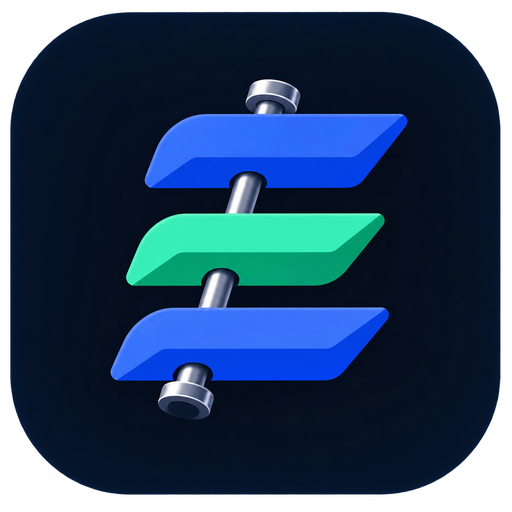
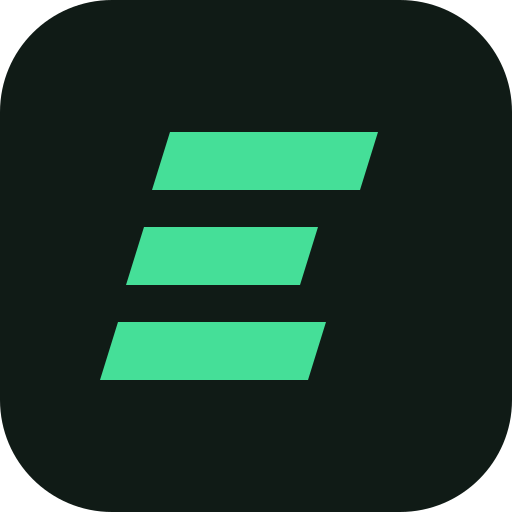
Fix manual timer controls and refresh green branding

diff --git a/index.html b/index.html
@@ -4,8 +4,8 @@
 <meta charset="UTF-8">
 <meta name="viewport" content="width=device-width, initial-scale=1.0, viewport-fit=cover">
 <meta name="theme-color" content="#101110">
-<meta name="description" content="Entreno 2.6.0 · tu plan 3+1: fuerza, tren superior y acondicionamiento opcional. Historial y entrenamiento sin conexión.">
-<title>Entreno 2.6.0</title>
+<meta name="description" content="Entreno 2.6.1 · tu plan 3+1 con reloj manual, historial y entrenamiento sin conexión.">
+<title>Entreno 2.6.1</title>
 
 <link rel="manifest" href="./manifest.json">
 <meta name="mobile-web-app-capable" content="yes">
@@ -464,7 +464,7 @@ footer{color:var(--t3);font-size:9.5px;text-align:center;padding:26px 0 10px;fon
 }
 
 /* 2.6 · mobile training surface */
-:root{--bg:#101110;--t1:#f6f6f0;--t2:#c2c5bc;--t3:#a0a59a;--c-upper:#d5f568;--c-upperb:#b6ccff;--c-leg:#94dbb8;--c-mob:#cfdfa7;--c-cf:#edbd84;--r:18px;--rl:20px;--f-disp:var(--f-sans)}
+:root{--bg:#101110;--t1:#f6f6f0;--t2:#c2c5bc;--t3:#a0a59a;--c-upper:#45df98;--c-upperb:#6cdeb4;--c-leg:#94dbb8;--c-mob:#8bdbac;--c-cf:#87ceb2;--c-extra:#60cba4;--r:18px;--rl:20px;--f-disp:var(--f-sans)}
 body{background:var(--bg)}
 .view{animation:none}.wrap{max-width:680px}
 .top{background:rgba(16,17,16,.96);padding-top:calc(16px + env(safe-area-inset-top));padding-bottom:16px}
@@ -481,12 +481,13 @@ body{background:var(--bg)}
 .warm-entry>span:nth-child(2){flex:1;min-width:0}.warm-entry small,.warm-entry b,.warm-entry>span>span{display:block}
 .warm-entry small{font-size:10px;color:var(--t3)}.warm-entry b{font-size:17px;letter-spacing:-.02em}.warm-entry>span>span{font-size:12px;color:var(--t2)}
 .warm-icon{width:38px;height:38px;display:grid;place-items:center;color:var(--c-upper)}.warm-icon svg,.warm-arrow svg{width:22px;height:22px}.warm-arrow{flex:0 0 22px}
-.herocard{background:#e5edcf;color:#151910;border:0;box-shadow:none;padding:24px;border-radius:22px;margin-top:12px}
-.herocard .kick{color:#435031;font-family:var(--f-sans);font-size:11px;letter-spacing:.04em;font-weight:650}
+.herocard{background:#c3ecd5;color:#10251b;border:0;box-shadow:none;padding:24px;border-radius:22px;margin-top:12px}
+.herocard .kick{color:#305843;font-family:var(--f-sans);font-size:11px;letter-spacing:.04em;font-weight:650}
 .herocard h2{font-size:clamp(30px,8vw,42px);font-weight:850;letter-spacing:-.045em;text-transform:none;margin:12px 0 8px}
-.herocard p{color:#435031;font-size:14px;line-height:1.55}
-.herocard .go{background:#171d10;color:#f6f8ef;border-radius:28px;font-family:var(--f-sans);font-size:15px;letter-spacing:0;text-transform:none;min-height:52px}
-.herocard .go.ghost{color:#1d2615;background:transparent;border:1px solid #63734d}
+.herocard p{color:#305843;font-size:14px;line-height:1.55}
+.herocard .go{background:#103b29;color:#f2fff7;border-radius:28px;font-family:var(--f-sans);font-size:15px;letter-spacing:0;text-transform:none;min-height:52px}
+.herocard .go.ghost{color:#173e2b;background:transparent;border:1px solid #507c63}
+.plan-action{display:flex;width:100%;margin-top:18px;padding:12px;position:relative;clear:both}
 .sec{margin-top:28px;border:0;padding-bottom:0}.sec:before{display:none}
 .sec h2{font-family:var(--f-sans);font-size:18px;letter-spacing:-.025em;text-transform:none}
 .sec .meta{font-family:var(--f-sans);font-size:11px;letter-spacing:0;text-transform:none}
@@ -502,7 +503,7 @@ body{background:var(--bg)}
 .ex .ex-edit{grid-column:3;grid-row:1}.ex .dose{grid-column:2 / 4;grid-row:2;display:flex;gap:12px;align-items:center;text-align:left;font-size:14px}
 .ex .dose .u{font-family:var(--f-sans);font-size:11px;margin:0;letter-spacing:0}
 .ex .nm{font-size:17px;line-height:1.35;letter-spacing:-.02em}.ex .cue{font-size:12px;line-height:1.55;margin-top:6px}
-.slot-label{font-family:var(--f-sans);font-size:10px;letter-spacing:.04em}.ex .last{font-family:var(--f-sans);font-size:12px;letter-spacing:0;margin-top:10px}.ex .last b{color:#d5f568}
+.slot-label{font-family:var(--f-sans);font-size:10px;letter-spacing:.04em}.ex .last{font-family:var(--f-sans);font-size:12px;letter-spacing:0;margin-top:10px}.ex .last b{color:var(--c-upper)}
 .ex-edit{background:#30352b;border-color:#515a46;color:#f0f5e8;font-size:23px}
 .add-ex select{background:#24271f}
 .exguide summary,.warm-how summary{font-family:var(--f-sans);font-size:12px;min-height:44px;letter-spacing:0;display:flex;align-items:center}
@@ -515,8 +516,9 @@ body{background:var(--bg)}
 .principle,.tip,.note{font-size:13px;line-height:1.6}.principle{background:#22261c;border-color:#424b32}
 .sheet{max-width:680px;margin:auto;background:#20231e;max-height:85dvh;overflow-y:auto;border:1px solid #515846;box-shadow:0 -12px 60px #0005}
 .sheet .btns button{font-family:var(--f-sans);letter-spacing:0;text-transform:none;font-size:13px}.sheet .modes button{min-height:44px}
-.timer-minimize{display:block;margin:0 0 10px auto;min-height:44px;padding:0 14px;border:1px solid var(--gb2);border-radius:22px;font-size:12px}
-#timer-dock{display:none;position:fixed;z-index:45;bottom:calc(var(--nav-h) + env(safe-area-inset-bottom) + 10px);left:50%;transform:translateX(-50%);width:min(92%,440px);min-height:52px;border-radius:28px;background:#d5f568;color:#171d10;box-shadow:0 4px 24px #0006;font-size:14px;font-weight:750}
+.timer-header{display:flex;align-items:center;justify-content:space-between;gap:10px;margin-bottom:12px;position:sticky;top:-16px;background:#20231e;padding:8px 0;z-index:1}
+.timer-header strong{font-size:17px}.timer-actions{display:flex;gap:8px}.timer-actions button{min-height:44px;padding:0 12px;border:1px solid var(--gb2);border-radius:14px;font-size:12px}
+#timer-dock{display:none;position:fixed;z-index:45;bottom:calc(var(--nav-h) + env(safe-area-inset-bottom) + 10px);left:50%;transform:translateX(-50%);width:min(92%,440px);min-height:52px;border-radius:28px;background:var(--c-upper);color:#103b29;box-shadow:0 4px 24px #0006;font-size:14px;font-weight:750}
 #timer-dock.on{display:block}body:has(#timer-dock.on) #app{padding-bottom:calc(var(--nav-h) + env(safe-area-inset-bottom) + 86px)}
 @media(max-width:360px){.ex .hd{padding:12px;gap:8px}.ex .nm{font-size:16px}.dcard{padding:16px;gap:10px}.dcard .ic{display:none}.herocard{padding:20px}.home-intro h2{font-size:34px}}
 @media(prefers-reduced-motion:reduce){*{scroll-behavior:auto!important;transition:none!important}}
@@ -539,6 +541,7 @@ body{background:var(--bg)}
 
 <div class="sheet" id="sheet" role="dialog" aria-label="Descanso">
   <div class="grab"></div>
+  <div class="timer-header"><strong>Reloj</strong><div class="timer-actions"><button data-act="timer-minimize" aria-label="Minimizar reloj">↓ Bajar</button><button data-act="timer-close" aria-label="Cerrar y detener reloj">✕ Cerrar</button></div></div>
   <div class="modes"><button class="on" id="mode-down" data-act="timer-mode" data-mode="down">Cuenta atrás</button><button id="mode-up" data-act="timer-mode" data-mode="up">Cronómetro</button></div>
   <div class="row">
     <div class="cd">
@@ -554,14 +557,13 @@ body{background:var(--bg)}
       <div class="s" id="sh-sub"></div>
     </div>
   </div>
-  <button class="timer-minimize" data-act="timer-minimize">Minimizar · seguir entrenando</button>
   <div class="btns">
     <button data-act="rest-">−15 s</button>
     <button data-act="rest+">+15 s</button>
     <button data-act="rest30">+30 s</button>
-    <button data-act="timer-pause">Pausar</button>
+    <button class="pri" data-act="timer-pause">Iniciar</button>
     <button data-act="timer-reset">Reiniciar</button>
-    <button class="pri" data-act="skip">Cerrar</button>
+    <button data-act="skip">Cancelar</button>
   </div>
 </div>
 
@@ -575,7 +577,7 @@ body{background:var(--bg)}
    PROGRAMA — todo el contenido vive aquí (fuente única)
    ========================================================= */
 const P = {
-  version: '2.6.0',
+  version: '2.6.1',
   reviewed: 'septiembre de 2026',
   progression: [
     {h:'Mantén el margen', x:'Trabaja normalmente con 2 repeticiones en reserva. Detén la serie si la técnica cambia o aparece dolor.'},
@@ -1448,7 +1450,7 @@ function renderHoy(){
   return `
   <div class="home-intro"><span>TU PLAN · 3 + 1</span><h2>Entrena.<br>Avanza a tu ritmo.</h2><p>Tres sesiones de fuerza. Una extra cuando puedas.</p></div>
   <div class="hero">${warmCard()}${hero}</div>
-  <button class="btn" style="width:100%;padding:12px" data-act="tab" data-v="semana">Planificar mis días</button>
+  <button class="btn plan-action" data-act="tab" data-v="semana">Planificar mis días</button>
   ${renderReadiness()}
   <div class="stats">
     <div class="stat">
@@ -1912,16 +1914,17 @@ function syncSession(){
 
 /* ---------------- descanso / cronómetro ---------------- */
 const R2 = 34, C2 = 2*Math.PI*R2;
-let RT = { mode:'down',end:0,total:0,int:null,done:false,running:false,started:0,elapsed:0,paused:0,minimized:false };
+let RT = { mode:'down',end:0,total:0,int:null,done:false,running:false,started:0,elapsed:0,paused:0,minimized:false,ready:false,hasStarted:false };
 function syncTimerDock(){
   const dock=$('#timer-dock');
   dock.classList.toggle('on',RT.minimized&&!RT.done);
-  dock.textContent=(RT.mode==='up'?'Cronómetro':'Descanso')+' · '+$('#sh-t').textContent+(RT.running?'':' · pausado')+' ↗';
+  dock.textContent=(RT.mode==='up'?'Cronómetro':'Descanso')+' · '+$('#sh-t').textContent+(RT.running?'':RT.hasStarted?' · pausado':' · listo')+' ↗';
 }
 function startRest(sec, nm, sub){
   RT.minimized=false;syncTimerDock();
   sec = +sec || S.settings.rest;
   RT.mode='down';RT.total = sec; RT.end = Date.now() + sec*1000; RT.done = false;RT.running=true;RT.paused=0;
+  RT.ready=true;RT.hasStarted=true;
   $('#sh-nm').textContent = nm || 'Descanso';
   $('#sh-sub').textContent = sub || '';
   $('#sheet').classList.add('on');
@@ -1929,7 +1932,8 @@ function startRest(sec, nm, sub){
 }
 function tickRest(){
   $('#mode-down').classList.toggle('on',RT.mode==='down');$('#mode-up').classList.toggle('on',RT.mode==='up');
-  const pause=$('[data-act="timer-pause"]');if(pause)pause.textContent=RT.running?'Pausar':'Reanudar';
+  const pause=$('[data-act="timer-pause"]');if(pause)pause.textContent=RT.running?'Pausar':RT.hasStarted&&!RT.done?'Reanudar':'Iniciar';
+  $$('#sheet [data-act="rest-"],#sheet [data-act="rest+"],#sheet [data-act="rest30"]').forEach(b=>{b.disabled=RT.mode==='up';});
   if(RT.mode==='up'){
     const seconds=(RT.elapsed+(RT.running?Date.now()-RT.started:0))/1000;
     $('#sh-t').textContent=mmss(seconds);$('#sh-fg').setAttribute('stroke-dasharray',`${C2.toFixed(1)} ${C2.toFixed(1)}`);syncTimerDock();return;
@@ -1938,9 +1942,9 @@ function tickRest(){
   $('#sh-t').textContent = mmss(left);
   const pct = RT.total ? left/RT.total : 0;
   $('#sh-fg').setAttribute('stroke-dasharray', `${(C2*pct).toFixed(1)} ${C2.toFixed(1)}`);
-  if (left <= 0 && !RT.done) {
+  if (left <= 0 && RT.running && !RT.done) {
     RT.done = true; clearInterval(RT.int);
-    RT.running=false;
+    RT.running=false;RT.hasStarted=false;
     $('#sh-t').textContent = '¡Ya!'; beep(true); haptic([130,90,130]);
     setTimeout(() => { if (RT.done) $('#sheet').classList.remove('on'); }, 2500);
   }
@@ -1952,21 +1956,24 @@ function addRest(s){
   const next = Math.max(5, left+s);
   if (RT.done) RT.done = false;
   RT.total = next;if(RT.running)RT.end=Date.now()+next*1000;else RT.paused=next;
-  clearInterval(RT.int);RT.int=setInterval(tickRest,200);tickRest();
+  clearInterval(RT.int);if(RT.running)RT.int=setInterval(tickRest,200);tickRest();
 }
 function timerMode(mode){
-  clearInterval(RT.int);RT.mode=mode;RT.done=false;RT.running=true;
-  if(mode==='up'){RT.elapsed=0;RT.started=Date.now();$('#sh-nm').textContent='Cronómetro';$('#sh-sub').textContent='Tiempo transcurrido';}
-  else {RT.total=S.settings.restStandard;RT.end=Date.now()+RT.total*1000;$('#sh-nm').textContent='Temporizador manual';$('#sh-sub').textContent='Cuenta atrás';}
-  $('#sheet').classList.add('on');RT.int=setInterval(tickRest,200);tickRest();
+  clearInterval(RT.int);RT.mode=mode;RT.done=false;RT.running=false;RT.ready=true;RT.hasStarted=false;RT.minimized=false;
+  RT.elapsed=0;RT.started=0;RT.end=0;
+  RT.total=S.settings.restStandard;RT.paused=RT.total;
+  $('#sh-nm').textContent=mode==='up'?'Cronómetro':'Temporizador manual';
+  $('#sh-sub').textContent='Pulsa Iniciar cuando estés listo';
+  $('#sheet').classList.add('on');tickRest();
 }
 function pauseTimer(){
   if(RT.running){if(RT.mode==='up')RT.elapsed+=Date.now()-RT.started;else RT.paused=Math.max(0,(RT.end-Date.now())/1000);RT.running=false;clearInterval(RT.int);}
-  else {RT.running=true;if(RT.mode==='up')RT.started=Date.now();else RT.end=Date.now()+RT.paused*1000;RT.int=setInterval(tickRest,200);}
+  else {if(RT.done&&RT.mode==='down')RT.paused=RT.total;RT.done=false;RT.running=true;RT.hasStarted=true;if(RT.mode==='up')RT.started=Date.now();else RT.end=Date.now()+RT.paused*1000;RT.int=setInterval(tickRest,200);}
+  $('#sh-sub').textContent=RT.running?'En marcha':'En pausa';
   tickRest();
 }
-function resetTimer(){if(RT.mode==='up'){RT.elapsed=0;RT.started=Date.now();}else{RT.paused=RT.total;RT.end=Date.now()+RT.total*1000;}RT.running=true;clearInterval(RT.int);RT.int=setInterval(tickRest,200);tickRest();}
-function skipRest(){ clearInterval(RT.int); RT.done = true;RT.running=false;RT.minimized=false; $('#sheet').classList.remove('on');syncTimerDock(); }
+function resetTimer(){clearInterval(RT.int);RT.elapsed=0;RT.started=0;RT.paused=RT.total;RT.end=0;RT.done=false;RT.running=false;RT.hasStarted=false;$('#sh-sub').textContent='Pulsa Iniciar cuando estés listo';tickRest();}
+function skipRest(){ clearInterval(RT.int); RT.done = true;RT.running=false;RT.ready=false;RT.hasStarted=false;RT.minimized=false; $('#sheet').classList.remove('on');syncTimerDock(); }
 function wodSecs(clk){ const m = String(clk).match(/(\d+)[:\s]*(\d+)?/); if (!m) return 600; return m[2] != null ? (+m[1])*60 + (+m[2]) : (+m[1])*60; }
 function wodKey(b){ return 'wod|'+b.hd+'|'+b.clk; }
 
@@ -2032,7 +2039,8 @@ document.addEventListener('click', e => {
   else if (a === 'skip-ex') { const x=S.active&&S.active.exercises.find(e=>e._uid===t.dataset.u); if(x){x.skipped=!x.skipped;save();renderHere();} }
   else if (a === 'move-ex') { const xs=S.active&&S.active.exercises,i=xs?xs.findIndex(e=>e._uid===t.dataset.u):-1,j=i+(+t.dataset.d); if(i>=0&&j>=0&&j<xs.length){[xs[i],xs[j]]=[xs[j],xs[i]];save();renderHere();} }
   else if (a === 'fav') { S.favorites[t.dataset.id]=!S.favorites[t.dataset.id];save();renderHere(); }
-  else if (a === 'manual-timer') { if(!RT.done&&(RT.running||RT.paused||RT.elapsed)){RT.minimized=false;$('#sheet').classList.add('on');syncTimerDock();}else startRest(S.settings.restStandard,'Temporizador manual','Cuenta atrás'); }
+  else if (a === 'manual-timer') { if(RT.ready&&!RT.done){RT.minimized=false;$('#sheet').classList.add('on');tickRest();}else timerMode('down'); }
+  else if (a === 'timer-close') { skipRest(); }
   else if (a === 'timer-minimize') { RT.minimized=true;$('#sheet').classList.remove('on');syncTimerDock(); }
   else if (a === 'timer-expand') { RT.minimized=false;$('#sheet').classList.add('on');syncTimerDock(); }
   else if (a === 'rnd')    { if (!S.active) { const d = dayById(DAYVIEW); if (!d) return; startSession(d.id); }

diff --git a/sw.js b/sw.js
@@ -1,5 +1,5 @@
-/* Entreno 2.6.0 · service worker */
-const V = 'entreno-v2.6.0';
+/* Entreno 2.6.1 · service worker */
+const V = 'entreno-v2.6.1';
 const SHELL = V + '-shell';
 const CORE = [
   './',

diff --git a/CHANGELOG.md b/CHANGELOG.md
@@ -1,5 +1,13 @@
 # Cambios
 
+## 2.6.1 — 2026-09-14
+
+- Reloj manual detenido al abrir, cambiar de modo y reiniciar; inicio explícito.
+- Botones Bajar y Cerrar en la cabecera del reloj; minimizar conserva el tiempo y cerrar lo detiene.
+- Espacio independiente para el botón de planificación.
+- Acentos verdes y nuevo logo vectorial con iconos adaptados a instalación.
+- Comprobaciones de inicio manual, pausa, reinicio, cierre, separación móvil y funcionamiento sin conexión.
+
 ## 2.6.0 — 2026-09-14
 
 - Plan 3+1 con objetivo de tres sesiones esenciales y CrossFit opcional, sin alterar calendarios guardados.

diff --git a/README.md b/README.md
@@ -1,4 +1,10 @@
-# Entreno 2.6.0
+# Entreno 2.6.1
+
+## Novedades 2.6.1
+
+El reloj manual se abre detenido y espera a que pulses Iniciar. Cambiar de modo y reiniciar también dejan el reloj preparado. Bajar conserva el reloj; Cerrar lo detiene. Los descansos al registrar series siguen empezando automáticamente.
+
+Planificación tiene espacio propio debajo de la tarjeta de entrenamiento. La paleta pasa a verde y el logo se sustituye por una E deportiva sencilla. El original vectorial está en `logo.svg`; `scripts/build-icons.cjs` genera los iconos instalables con Sharp.
 
 ## Novedades 2.6
 
